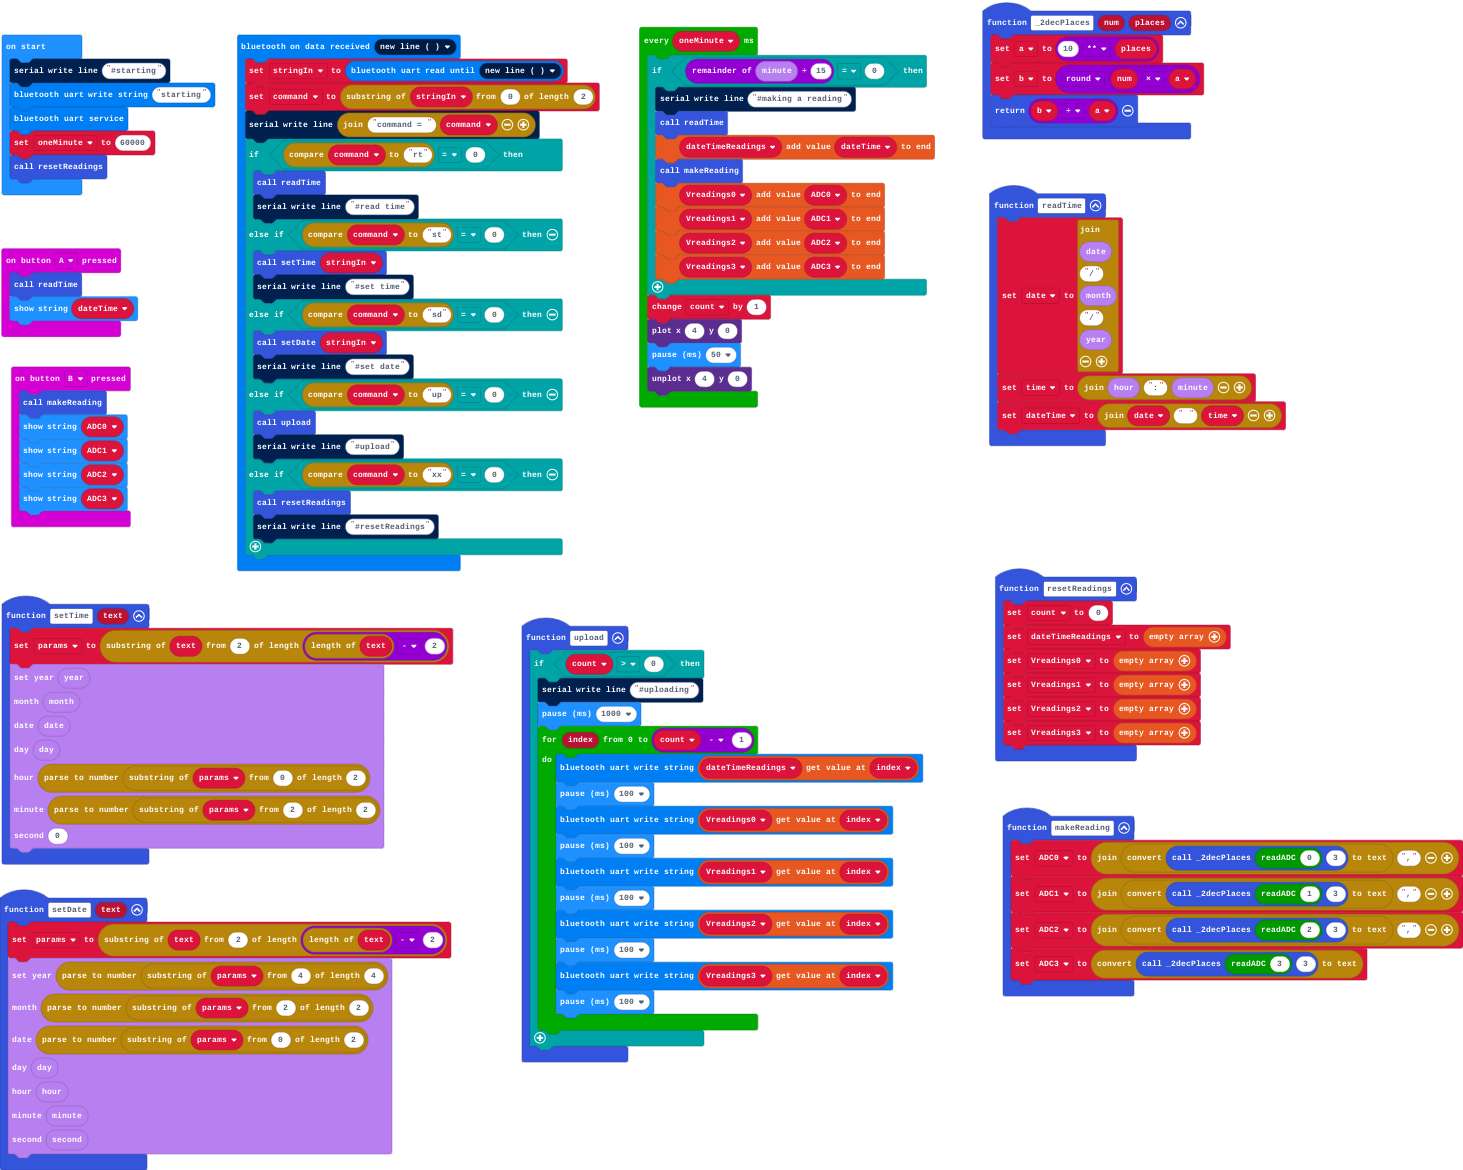
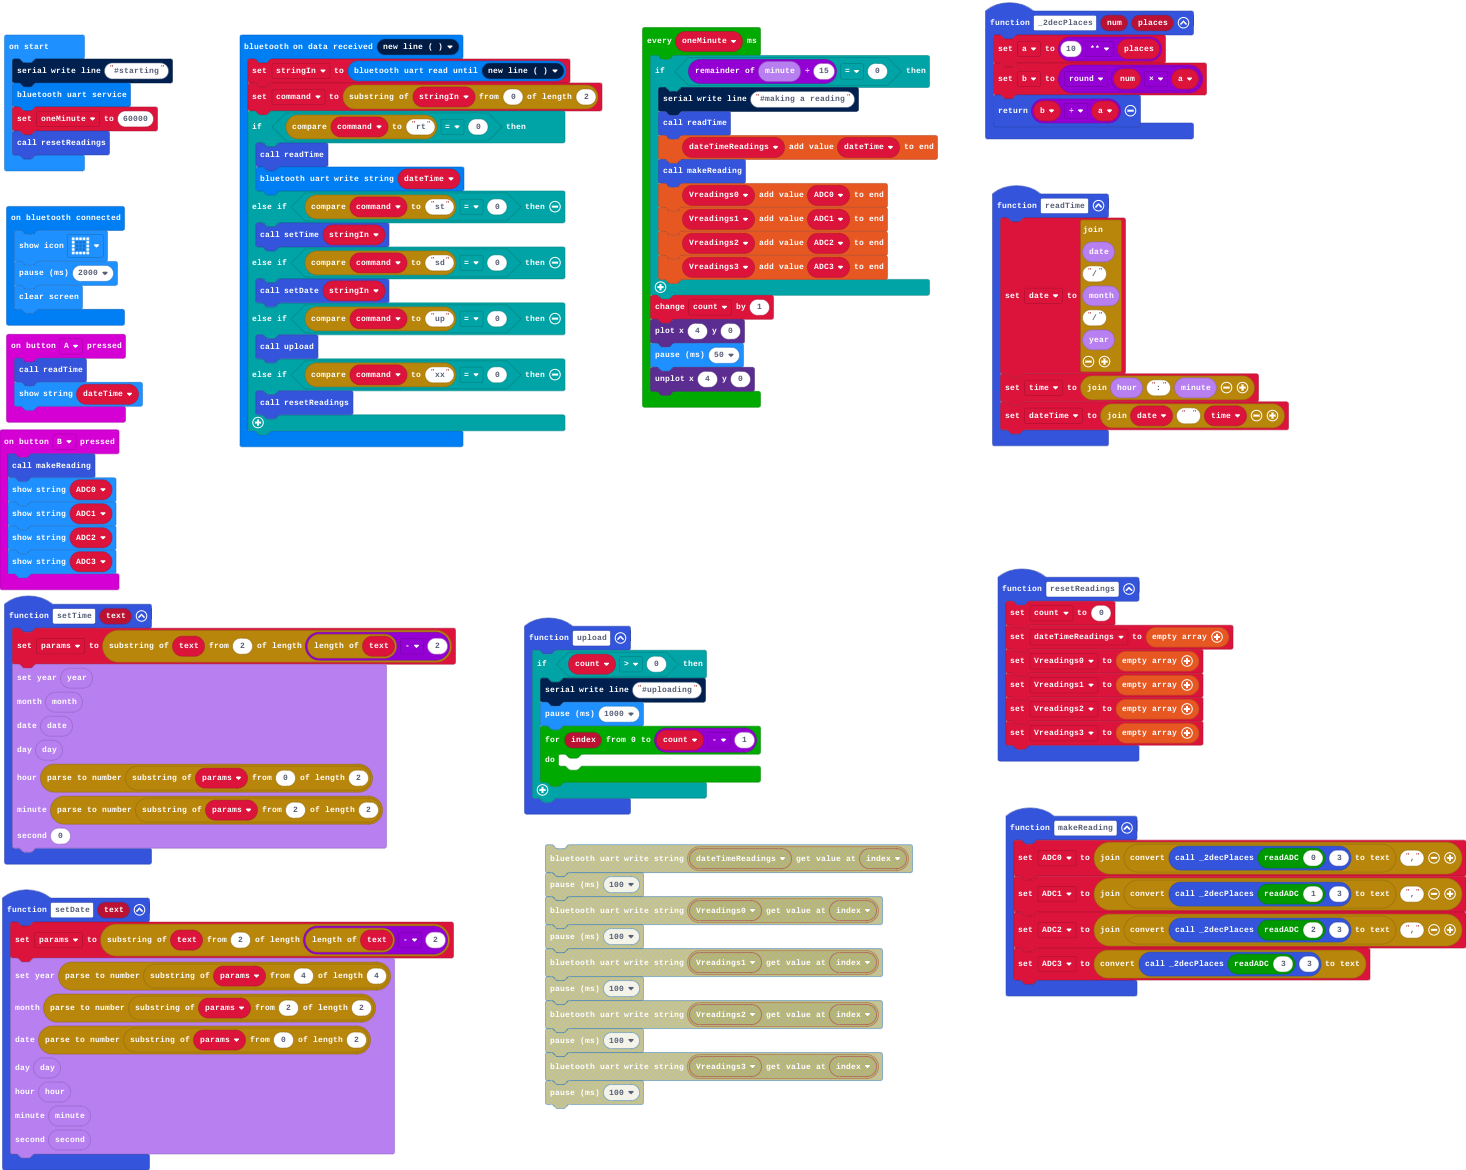
BT debug

diff --git a/main.ts b/main.ts
@@ -17,6 +17,11 @@ function resetReadings () {
     Vreadings2 = []
     Vreadings3 = []
 }
+bluetooth.onBluetoothConnected(function () {
+    basic.showIcon(IconNames.Square)
+    basic.pause(2000)
+    basic.clearScreen()
+})
 function _2decPlaces (num: number, places: number) {
     a = 10 ** places
     b = Math.round(num * a)
@@ -41,22 +46,17 @@ function setDate (text: string) {
 bluetooth.onUartDataReceived(serial.delimiters(Delimiters.NewLine), function () {
     stringIn = bluetooth.uartReadUntil(serial.delimiters(Delimiters.NewLine))
     command = stringIn.substr(0, 2)
-    serial.writeLine("command = " + command)
     if (command.compare("rt") == 0) {
         readTime()
-        serial.writeLine("#read time")
+        bluetooth.uartWriteString(dateTime)
     } else if (command.compare("st") == 0) {
         setTime(stringIn)
-        serial.writeLine("#set time")
     } else if (command.compare("sd") == 0) {
         setDate(stringIn)
-        serial.writeLine("#set date")
     } else if (command.compare("up") == 0) {
         upload()
-        serial.writeLine("#upload")
     } else if (command.compare("xx") == 0) {
         resetReadings()
-        serial.writeLine("#resetReadings")
     }
 })
 function upload () {
@@ -64,16 +64,7 @@ function upload () {
         serial.writeLine("#uploading")
         basic.pause(1000)
         for (let index = 0; index <= count - 1; index++) {
-            bluetooth.uartWriteString(dateTimeReadings[index])
-            basic.pause(100)
-            bluetooth.uartWriteString(Vreadings0[index])
-            basic.pause(100)
-            bluetooth.uartWriteString(Vreadings1[index])
-            basic.pause(100)
-            bluetooth.uartWriteString(Vreadings2[index])
-            basic.pause(100)
-            bluetooth.uartWriteString(Vreadings3[index])
-            basic.pause(100)
+        	
         }
     }
 }
@@ -115,7 +106,6 @@ let dateTime = ""
 let time = ""
 let date = ""
 serial.writeLine("#starting")
-bluetooth.uartWriteString("starting")
 bluetooth.startUartService()
 let oneMinute = 60000
 resetReadings()
